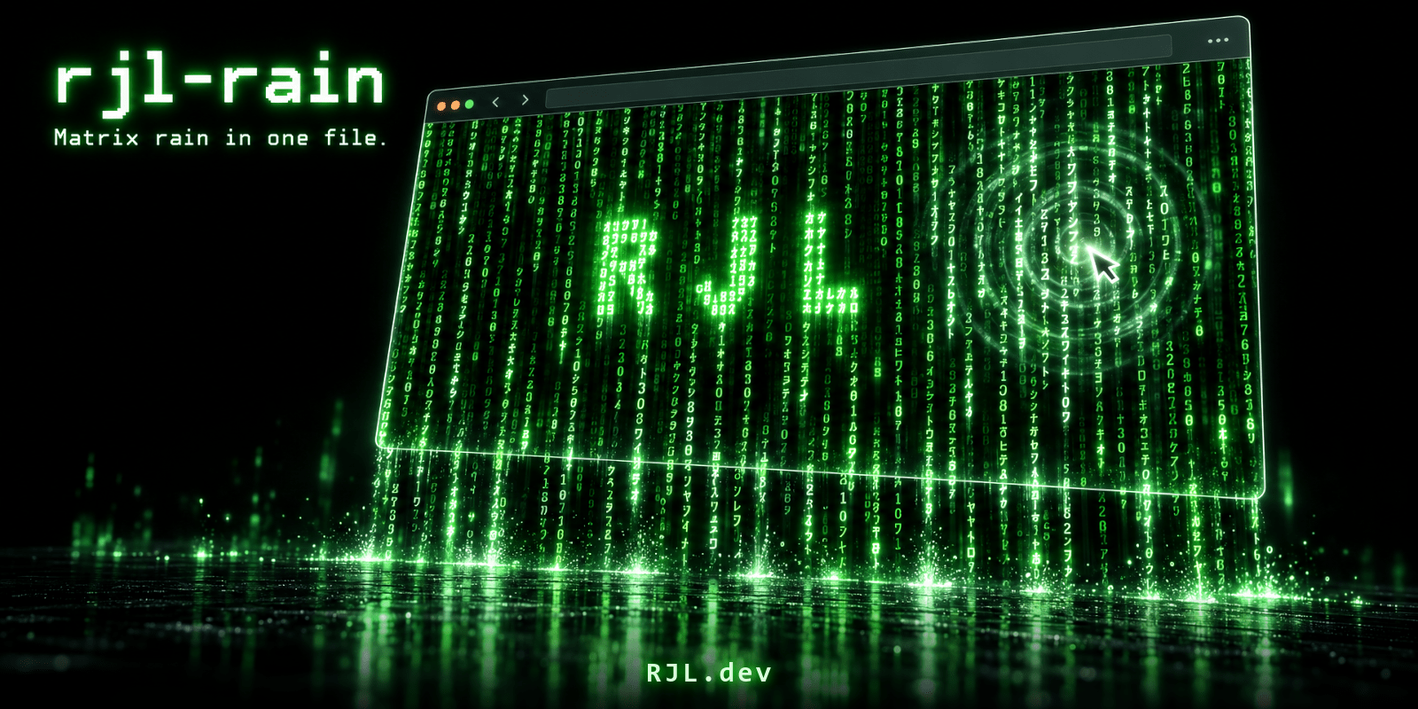
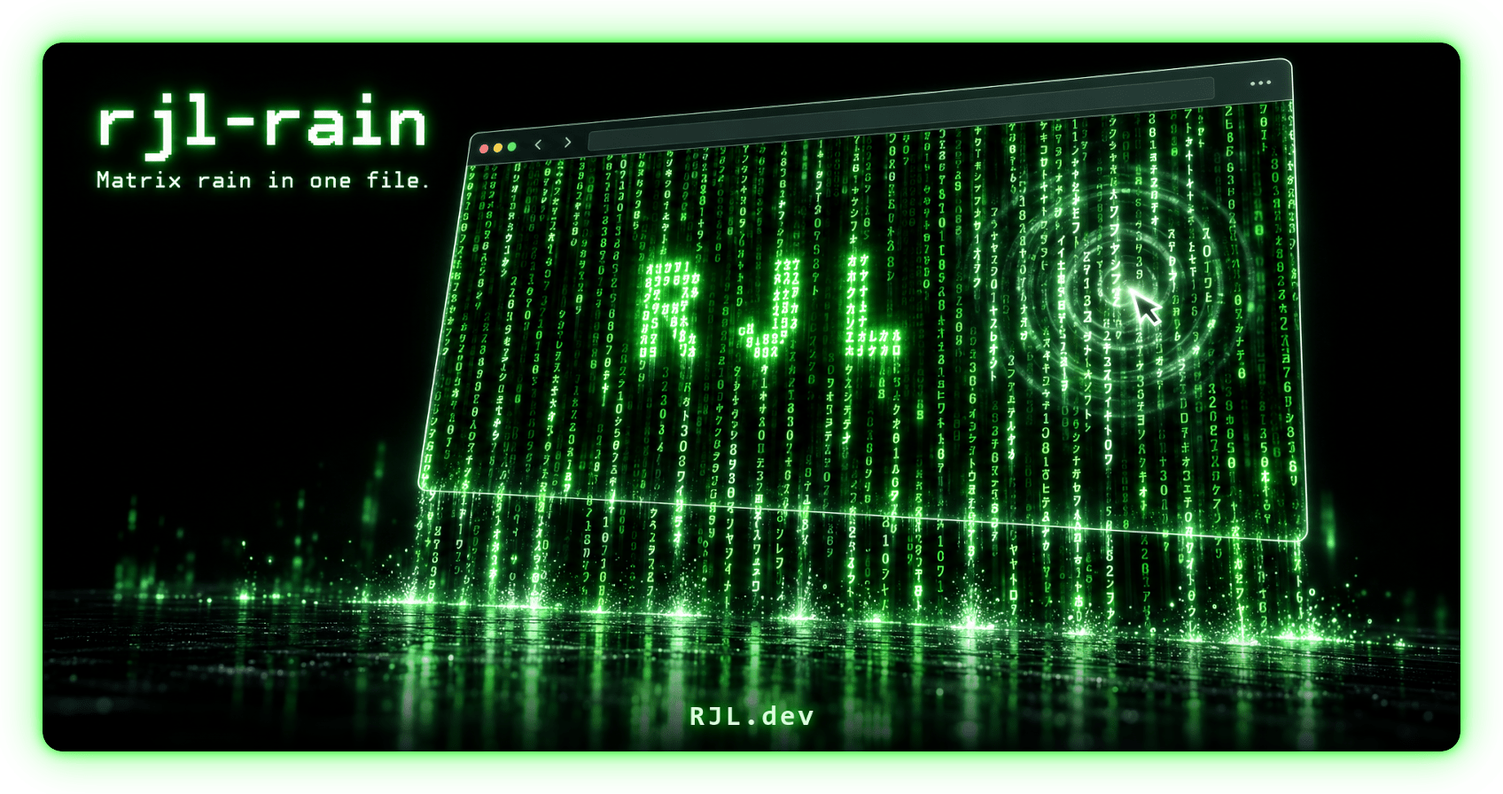
rjl-rain 1.1.2
README: framework examples for React/Next.js, Vue/Nuxt, Angular, Svelte, Astro, SolidJS, Preact, Qwik, Lit, Alpine.js, the server-driven stacks (htmx, Turbo, Livewire, LiveView) and site builders, each collapsible. The README images get rounded corners and a green glow baked into the PNGs. No library changes beyond the version.

diff --git a/rjl-rain.min.js b/rjl-rain.min.js
@@ -1,2 +1,2 @@
-/*! rjl-rain v1.1.1 | MIT License | (c) 2026 RJ Lindelof | https://github.com/rjlsoftware/rjl-rain */
-!function(e,t){"object"==typeof module&&module.exports?module.exports=t():e.RJLRain=t()}("undefined"!=typeof self?self:this,function(){"use strict";const e="1.1.1",t=Object.freeze({classic:function(){let e="";for(let t=65382;t<=65437;t++)e+=String.fromCharCode(t);return e}()+"0123456789",rjl:"RJL",binary:"01",hex:"0123456789ABCDEF"}),n={A:"ehvhh",B:"uhuhu",C:"fgggf",D:"uhhhu",E:"vgugv",F:"vgugg",G:"fgjhe",H:"hhvhh",I:"v444v",J:"722ic",K:"hisih",L:"ggggv",M:"hrlhh",N:"hpljh",O:"ehhhe",P:"uhugg",Q:"ehlid",R:"uhuih",S:"fge1u",T:"v4444",U:"hhhhe",V:"hhha4",W:"hhlrh",X:"ha4ah",Y:"ha444",Z:"v248v",0:"ejlpe",1:"4c44e",2:"eh68v",3:"u1e1u",4:"iiv22",5:"vgu1u",6:"eguhe",7:"v1244",8:"ehehe",9:"ehf1e"," ":"00000","!":"44404","?":"eh604",".":"00004","-":"00e00",":":"04040",_:"0000v","'":"44000"};function o(e,t){const o=Math.max(1,Math.floor(t||1)),r=Array.from(String(null==e?"":e).toUpperCase()),i=[];return r.forEach((e,t)=>{const r=n[e]||n["?"];for(let e=0;e<5;e++){const n=parseInt(r[e],32);for(let r=0;r<5;r++)if(n>>4-r&1)for(let n=0;n<o;n++)for(let a=0;a<o;a++)i.push([e*o+n,(6*t+r)*o+a])}}),{width:r.length?(6*r.length-1)*o:0,height:r.length?5*o:0,cells:i}}const r=Object.freeze({chars:t.classic,color:"#00FF00",bright:"#B6FFB6",head:"",background:"#000000",fade:.05,fontSize:16,fontFamily:"monospace",fps:20,speed:1,speedVariance:0,word:"RJL",wordChance:.005,wordFrames:50,wordChar:"1",wordScale:1,wordPosition:"random",onWord:null,interactive:!0,glowRadius:70,ignore:'a,button,input,select,textarea,label,summary,[role="button"],[contenteditable]',reducedMotion:"auto",pauseOffscreen:!0,controls:!1}),i="rjl-rain:paused";function a(e,t){const n=Object.assign({},e,t||{});return n.fade=Math.min(1,Math.max(0,Number(n.fade)||0)),n.fontSize=Math.max(6,Number(n.fontSize)||r.fontSize),n.fps=Math.min(60,Math.max(1,Number(n.fps)||r.fps)),n.speed=Math.min(3,Math.max(.1,Number(n.speed)||r.speed)),n.speedVariance=Math.min(1,Math.max(0,Number(n.speedVariance)||0)),n.glowRadius=Math.max(0,Number(n.glowRadius)||0),n.wordChance=Math.min(1,Math.max(0,Number(n.wordChance)||0)),n.wordFrames=Math.max(1,Math.floor(Number(n.wordFrames)||r.wordFrames)),n.wordPosition="center"===n.wordPosition?"center":"random",n.chars=String(n.chars||"")||r.chars,n.head=n.head?String(n.head):"",n.words=(Array.isArray(n.word)?n.word:[n.word]).filter(e=>null!=e&&""!==e).map(String),n.transparent="transparent"===String(n.background).toLowerCase(),n}function s(t,n){if("undefined"==typeof document)throw new Error("RJLRain needs a browser (document is undefined)");t&&"object"==typeof t&&"number"!=typeof t.nodeType&&void 0===n&&(n=t,t=null);const s="string"==typeof t?document.querySelector(t):t;if("string"==typeof t&&!s)throw new Error("RJLRain: no element matches "+t);if(s&&"number"!=typeof s.nodeType)throw new TypeError("RJLRain: the target must be an element, a selector or a <canvas>");let l=s&&s.getContext?s:null;const c=s&&!l&&s!==document.body&&s!==document.documentElement?s:null,d=!l;let h=null;if(d)if(l=document.createElement("canvas"),l.setAttribute("aria-hidden","true"),c){l.style.cssText="position:absolute;top:0;left:0;width:100%;height:100%;z-index:-1;pointer-events:none;display:block;border-radius:inherit";const e=getComputedStyle(c);h={position:c.style.position,isolation:c.style.isolation},"static"===e.position&&(c.style.position="relative"),"isolate"!==e.isolation&&(c.style.isolation="isolate")}else l.style.cssText="position:fixed;top:0;left:0;width:100%;height:100%;z-index:-1;pointer-events:none;display:block";else l.style.width||l.clientWidth!==l.width||l.clientHeight!==l.height||(l.style.width=l.width+"px",l.style.height=l.height+"px");let u=a(r,n);const f=l.getContext("2d",{willReadFrequently:u.transparent});let m=Array.from(u.chars),p=u.fontSize+"px "+u.fontFamily,g=0,w=0,y=0,b=new Float32Array(0),v=new Int32Array(0),M=new Float32Array(0),x=[],S=new Uint8Array(0),E=0,A=0,R=!1,C=!1,L=!0,z="",j=0,F=0,k=!1,O=-1e4,N=-1e4;const T=[0,1,2,3].map(()=>({x:0,y:0,t:0,lo:0,hi:0,on:!1}));let I=0,J=null;const B=()=>J||(J=l.getBoundingClientRect()),H=new Set;let P=!1,W=0,q=null,D=!1,V=null;const U="function"==typeof matchMedia?matchMedia("(prefers-reduced-motion: reduce)"):null,X=()=>"auto"===u.reducedMotion?!(!U||!U.matches):!!u.reducedMotion,Y=()=>u.speed*(1-u.speedVariance*Math.random());function G(){u.transparent?f.clearRect(0,0,g,w):(f.fillStyle=u.background,f.fillRect(0,0,g,w)),z=""}function K(){if(C)return;J=null;const e=Math.min("number"==typeof devicePixelRatio&&devicePixelRatio||1,2);g=Math.max(0,Math.round(l.clientWidth)),w=Math.max(0,Math.round(l.clientHeight)),l.width=Math.round(g*e),l.height=Math.round(w*e),f.setTransform(e,0,0,e,0,0),y=Math.floor(g/u.fontSize),b=new Float32Array(y).fill(1),v=new Int32Array(y).fill(-1),M=new Float32Array(y);for(let e=0;e<y;e++)M[e]=Y();x=new Array(y).fill(""),S=new Uint8Array(y),j=0,H.clear(),P=!1,G(),k=!1,X()&&$()}function Q(e,t,n,o){o!==z&&(f.fillStyle=o,z=o),f.fillText(e,t,n)}function Z(e,t){const n=u.fontSize;u.transparent?f.clearRect(e,t-n,n,Math.ceil(1.2*n)):(z!==u.background&&(f.fillStyle=u.background,z=u.background),f.fillRect(e,t-n,n,Math.ceil(1.2*n)))}function _(e,t){const n=u.fontSize;t||(k=!1),f.globalAlpha=u.fade,u.transparent?(f.globalCompositeOperation="destination-out",f.fillStyle="#000",f.fillRect(0,0,g,w),f.globalCompositeOperation="source-over"):(f.fillStyle=u.background,f.fillRect(0,0,g,w)),f.globalAlpha=1,f.font=p,z="";let o=!1;for(let t=0;t<T.length;t++){const n=T[t];if(!n.on)continue;const r=e-n.t;if(r>650){n.on=!1;continue}const i=.5*r,a=Math.max(0,i-22),s=i+22;n.lo=a*a,n.hi=s*s,o=!0}const r=u.interactive?u.glowRadius*u.glowRadius:-1,i=u.head;for(let e=0;e<y;e++){const t=e*n,a=0|b[e];if(a!==v[e]){if(1===S[e]){const o=v[e]*n;Z(t,o),Q(x[e],t,o,u.color)}for(let s=Math.max(v[e]+1,a-3,1);s<=a;s++){const l=s*n;let c=m[Math.random()*m.length|0],d=0;if(P&&H.has(65536*s+e))c=u.wordChar,d=3;else{const e=t-O,n=l-N;if(e*e+n*n<r)d=2;else if(o)for(let e=0;e<T.length;e++){const n=T[e];if(!n.on)continue;const o=t-n.x,r=l-n.y,i=o*o+r*r;if(i>n.lo&&i<n.hi){d=2;break}}0===d&&i&&s===a&&(d=1)}Q(c,t,l,0===d?u.color:1===d?i:u.bright),2===d&&Math.random()<.25&&(b[e]+=1),s===a&&(x[e]=c,S[e]=d)}v[e]=a}else if(1===S[e]&&i){const o=a*n;Z(t,o),Q(x[e],t,o,i)}a*n>w&&Math.random()>.975&&(b[e]=0,v[e]=-1,S[e]=0,M[e]=Y()),b[e]+=M[e]}P?++W>u.wordFrames&&(P=!1,W=0):u.words.length&&Math.random()<u.wordChance&&oe(void 0,!0),u.transparent&&!t&&function(){const e=l.width,t=l.height;if(!e||!t)return;const n=j>=t?0:j,o=Math.min(Math.ceil(t/20),t-n),r=f.getImageData(0,n,e,o),i=r.data,a=Math.min(96,Math.ceil(.5/Math.max(u.fade,.004))+2);let s=!1;for(let e=3;e<i.length;e+=4)i[e]&&i[e]<a&&(i[e]=i[e-1]=i[e-2]=i[e-3]=0,s=!0);s&&f.putImageData(r,0,n),j=n+o}()}function $(){G();const e=Math.ceil(w/u.fontSize)+30,t="undefined"!=typeof performance?performance.now():Date.now();for(let n=0;n<e;n++)_(t,!0);k=!0}function ee(e){E=requestAnimationFrame(ee),e-A<1e3/u.fps||(A=e,_(e,!1))}function te(){E&&cancelAnimationFrame(E),E=0}function ne(){C||(X()?(te(),k||$()):R||!L&&u.pauseOffscreen?te():E||R||C||X()||!L&&u.pauseOffscreen||(E=requestAnimationFrame(ee)),q&&(q.setAttribute("aria-pressed",R?"true":"false"),D&&(V.setAttribute("d",R?"M5 3l8 5-8 5z":"M4 3h3v10H4zM9 3h3v10H9z"),q.style.color=u.color,q.style.borderColor=u.color,q.style.display=X()?"none":"grid")))}function oe(e,t){const n=void 0===e?function(){const e=u.words;if(!e.length)return"";const t=e[F%e.length];return F=(F+1)%e.length,t}():e;if(!n||C)return!1;const r=o(n,u.wordScale),i=Math.floor(w/u.fontSize);if(!r.cells.length||r.width>y||r.height>i)return!1;const a="center"===u.wordPosition,s=a?Math.floor((y-r.width)/2):Math.floor(Math.random()*(y-r.width+1)),l=Math.min(Math.max(1,Math.floor(a?(i-r.height)/2:i/3)),i-r.height);H.clear();for(const[e,t]of r.cells)H.add(65536*(l+e)+s+t);return P=!0,W=0,!t&&X()&&$(),"function"==typeof u.onWord&&u.onWord(String(n)),!0}function re(){R=!0,ne()}function ie(){R=!1,ne()}function ae(){const e=document.fonts;if(!e||"function"!=typeof e.load)return;const t=p;e.load(t,m.slice(0,8).join("")).then(()=>{!C&&t===p&&X()&&$()},()=>{})}const se=()=>{R?ie():re();try{localStorage.setItem(i,R?"1":"0")}catch(e){}};function le(){const e=u.controls;if(e){if(!0===e){const e="http://www.w3.org/2000/svg";q=document.createElement("button"),D=!0,q.type="button",q.className="rjl-rain-toggle",q.setAttribute("aria-label","Pause animation"),q.style.cssText=(c?"position:absolute;z-index:1;":d?"position:fixed;z-index:999;":"")+"right:12px;bottom:12px;width:36px;height:36px;padding:0;place-items:center;cursor:pointer;border:1px solid;border-radius:50%;background:rgba(0,0,0,0.6)";const t=document.createElementNS(e,"svg");t.setAttribute("viewBox","0 0 16 16"),t.setAttribute("width","14"),t.setAttribute("height","14"),t.setAttribute("fill","currentColor"),t.setAttribute("aria-hidden","true"),V=document.createElementNS(e,"path"),t.appendChild(V),q.appendChild(t),c?c.appendChild(q):d?document.body.appendChild(q):l.insertAdjacentElement("afterend",q)}else if(q="string"==typeof e?document.querySelector(e):e,!q)throw new Error("RJLRain: no element matches "+e);q.addEventListener("click",se);try{"1"===localStorage.getItem(i)&&(R=!0)}catch(e){}}}function ce(){q&&(q.removeEventListener("click",se),D?q.remove():q.removeAttribute("aria-pressed"),q=V=null,D=!1)}const de=e=>{const t=B();O=e.clientX-t.left,N=e.clientY-t.top},he=e=>{e.relatedTarget||(O=-1e4,N=-1e4)},ue=e=>{if(!u.interactive||R||X())return;const t=e.target;if(u.ignore&&t&&t.closest&&t.closest(u.ignore))return;const n=B(),o=e.clientX-n.left,r=e.clientY-n.top;if(o<0||r<0||o>n.width||r>n.height)return;const i=T[I];I=(I+1)%T.length,i.x=o,i.y=r,i.t=performance.now(),i.on=!0},fe=()=>{J=null};let me=0;const pe=()=>{Math.round(l.clientWidth)===g&&Math.round(l.clientHeight)===w||(clearTimeout(me),me=setTimeout(K,100))};window.addEventListener("pointermove",de,{passive:!0}),window.addEventListener("pointerdown",ue,{passive:!0}),window.addEventListener("pointerout",he,{passive:!0}),window.addEventListener("scroll",fe,{passive:!0,capture:!0});const ge="function"==typeof ResizeObserver?new ResizeObserver(pe):null;ge?ge.observe(l):window.addEventListener("resize",pe);const we="function"==typeof IntersectionObserver?new IntersectionObserver(e=>{L=e[e.length-1].isIntersecting,ne()}):null;function ye(){C||(c?c.insertBefore(l,c.firstChild):d&&document.body.insertBefore(l,document.body.firstChild),le(),K(),ae(),ne())}return we&&we.observe(l),U&&U.addEventListener&&U.addEventListener("change",ne),!d||c||document.body?ye():document.addEventListener("DOMContentLoaded",ye,{once:!0}),{version:e,canvas:l,get running(){return 0!==E},get paused(){return R},get forming(){return P},form:e=>oe(e,!1),pause:re,resume:ie,set(e){const t=u;if(u=a(u,e),m=Array.from(u.chars),p=u.fontSize+"px "+u.fontFamily,u.words.join("\n")!==t.words.join("\n")&&(F=0),u.speed!==t.speed||u.speedVariance!==t.speedVariance)for(let e=0;e<y;e++)M[e]=Y();return u.fontSize!==t.fontSize?K():u.transparent!==t.transparent&&G(),p!==t.fontSize+"px "+t.fontFamily&&ae(),u.controls!==t.controls&&(ce(),le()),k=!1,ne(),this},resize:K,destroy(){C||(C=!0,te(),clearTimeout(me),window.removeEventListener("pointermove",de),window.removeEventListener("pointerdown",ue),window.removeEventListener("pointerout",he),window.removeEventListener("scroll",fe,{capture:!0}),ge?ge.disconnect():window.removeEventListener("resize",pe),we&&we.disconnect(),U&&U.removeEventListener&&U.removeEventListener("change",ne),ce(),d?l.remove():f.clearRect(0,0,g,w),h&&(c.style.position=h.position,c.style.isolation=h.isolation))}}}const l={chars:"s",color:"s",bright:"s",head:"s",background:"s",fade:"n","font-size":"n","font-family":"s",fps:"n",speed:"n","speed-variance":"n",word:"w","word-chance":"n","word-frames":"n","word-char":"s","word-scale":"n","word-position":"s",interactive:"b","glow-radius":"n",ignore:"s","reduced-motion":"m","pause-offscreen":"b",controls:"b"};function c(e,n){const o={};return Object.keys(l).forEach(i=>{const a=i.replace(/-([a-z])/g,(e,t)=>t.toUpperCase());if(!e.hasAttribute(i))return void(n&&(o[a]=r[a]));const s=e.getAttribute(i),c=l[i];o[a]="n"===c?Number(s):"b"===c?"false"!==s:"w"===c?s.split(",").map(e=>e.trim()):"m"===c?"auto"===s?"auto":"false"!==s:"chars"===a&&t[s]?t[s]:s}),o}function d(e){const t=e||document,n=[];return t&&"function"==typeof t.querySelectorAll?(t.querySelectorAll("[data-rjl-rain]").forEach(e=>{if(e.rjlRain)return;let t={};const o=e.getAttribute("data-rjl-rain");if(o)try{t=JSON.parse(o)}catch(e){return void console.error("RJLRain: data-rjl-rain is not valid JSON: "+o)}e.rjlRain=s(e,t),n.push(e.rjlRain)}),n):n}return s.version=e,s.defaults=r,s.glyphs=t,s.wordShape=o,s.auto=d,"undefined"!=typeof document&&(function(){const e="undefined"!=typeof window?window:null;if(e&&e.customElements&&e.HTMLElement&&!e.customElements.get("rjl-rain")){class t extends e.HTMLElement{static get observedAttributes(){return Object.keys(l)}connectedCallback(){if(this.rain)return;const e=this.hasAttribute("fullscreen");e?this.style.display="none":"inline"===getComputedStyle(this).display&&(this.style.display="block");const t=c(this,!1);t.onWord=e=>this.dispatchEvent(new CustomEvent("word",{detail:{word:e},bubbles:!0})),this.rain=s(e?null:this,t)}disconnectedCallback(){this.rain&&(this.rain.destroy(),this.rain=null)}attributeChangedCallback(){this.rain&&this.rain.set(c(this,!0))}}e.customElements.define("rjl-rain",t)}}(),"loading"===document.readyState?document.addEventListener("DOMContentLoaded",()=>d(),{once:!0}):d()),s});
+/*! rjl-rain v1.1.2 | MIT License | (c) 2026 RJ Lindelof | https://github.com/rjlsoftware/rjl-rain */
+!function(e,t){"object"==typeof module&&module.exports?module.exports=t():e.RJLRain=t()}("undefined"!=typeof self?self:this,function(){"use strict";const e="1.1.2",t=Object.freeze({classic:function(){let e="";for(let t=65382;t<=65437;t++)e+=String.fromCharCode(t);return e}()+"0123456789",rjl:"RJL",binary:"01",hex:"0123456789ABCDEF"}),n={A:"ehvhh",B:"uhuhu",C:"fgggf",D:"uhhhu",E:"vgugv",F:"vgugg",G:"fgjhe",H:"hhvhh",I:"v444v",J:"722ic",K:"hisih",L:"ggggv",M:"hrlhh",N:"hpljh",O:"ehhhe",P:"uhugg",Q:"ehlid",R:"uhuih",S:"fge1u",T:"v4444",U:"hhhhe",V:"hhha4",W:"hhlrh",X:"ha4ah",Y:"ha444",Z:"v248v",0:"ejlpe",1:"4c44e",2:"eh68v",3:"u1e1u",4:"iiv22",5:"vgu1u",6:"eguhe",7:"v1244",8:"ehehe",9:"ehf1e"," ":"00000","!":"44404","?":"eh604",".":"00004","-":"00e00",":":"04040",_:"0000v","'":"44000"};function o(e,t){const o=Math.max(1,Math.floor(t||1)),r=Array.from(String(null==e?"":e).toUpperCase()),i=[];return r.forEach((e,t)=>{const r=n[e]||n["?"];for(let e=0;e<5;e++){const n=parseInt(r[e],32);for(let r=0;r<5;r++)if(n>>4-r&1)for(let n=0;n<o;n++)for(let a=0;a<o;a++)i.push([e*o+n,(6*t+r)*o+a])}}),{width:r.length?(6*r.length-1)*o:0,height:r.length?5*o:0,cells:i}}const r=Object.freeze({chars:t.classic,color:"#00FF00",bright:"#B6FFB6",head:"",background:"#000000",fade:.05,fontSize:16,fontFamily:"monospace",fps:20,speed:1,speedVariance:0,word:"RJL",wordChance:.005,wordFrames:50,wordChar:"1",wordScale:1,wordPosition:"random",onWord:null,interactive:!0,glowRadius:70,ignore:'a,button,input,select,textarea,label,summary,[role="button"],[contenteditable]',reducedMotion:"auto",pauseOffscreen:!0,controls:!1}),i="rjl-rain:paused";function a(e,t){const n=Object.assign({},e,t||{});return n.fade=Math.min(1,Math.max(0,Number(n.fade)||0)),n.fontSize=Math.max(6,Number(n.fontSize)||r.fontSize),n.fps=Math.min(60,Math.max(1,Number(n.fps)||r.fps)),n.speed=Math.min(3,Math.max(.1,Number(n.speed)||r.speed)),n.speedVariance=Math.min(1,Math.max(0,Number(n.speedVariance)||0)),n.glowRadius=Math.max(0,Number(n.glowRadius)||0),n.wordChance=Math.min(1,Math.max(0,Number(n.wordChance)||0)),n.wordFrames=Math.max(1,Math.floor(Number(n.wordFrames)||r.wordFrames)),n.wordPosition="center"===n.wordPosition?"center":"random",n.chars=String(n.chars||"")||r.chars,n.head=n.head?String(n.head):"",n.words=(Array.isArray(n.word)?n.word:[n.word]).filter(e=>null!=e&&""!==e).map(String),n.transparent="transparent"===String(n.background).toLowerCase(),n}function s(t,n){if("undefined"==typeof document)throw new Error("RJLRain needs a browser (document is undefined)");t&&"object"==typeof t&&"number"!=typeof t.nodeType&&void 0===n&&(n=t,t=null);const s="string"==typeof t?document.querySelector(t):t;if("string"==typeof t&&!s)throw new Error("RJLRain: no element matches "+t);if(s&&"number"!=typeof s.nodeType)throw new TypeError("RJLRain: the target must be an element, a selector or a <canvas>");let l=s&&s.getContext?s:null;const c=s&&!l&&s!==document.body&&s!==document.documentElement?s:null,d=!l;let h=null;if(d)if(l=document.createElement("canvas"),l.setAttribute("aria-hidden","true"),c){l.style.cssText="position:absolute;top:0;left:0;width:100%;height:100%;z-index:-1;pointer-events:none;display:block;border-radius:inherit";const e=getComputedStyle(c);h={position:c.style.position,isolation:c.style.isolation},"static"===e.position&&(c.style.position="relative"),"isolate"!==e.isolation&&(c.style.isolation="isolate")}else l.style.cssText="position:fixed;top:0;left:0;width:100%;height:100%;z-index:-1;pointer-events:none;display:block";else l.style.width||l.clientWidth!==l.width||l.clientHeight!==l.height||(l.style.width=l.width+"px",l.style.height=l.height+"px");let u=a(r,n);const f=l.getContext("2d",{willReadFrequently:u.transparent});let m=Array.from(u.chars),p=u.fontSize+"px "+u.fontFamily,g=0,w=0,y=0,b=new Float32Array(0),v=new Int32Array(0),M=new Float32Array(0),x=[],S=new Uint8Array(0),E=0,A=0,R=!1,C=!1,L=!0,z="",j=0,F=0,k=!1,O=-1e4,N=-1e4;const T=[0,1,2,3].map(()=>({x:0,y:0,t:0,lo:0,hi:0,on:!1}));let I=0,J=null;const B=()=>J||(J=l.getBoundingClientRect()),H=new Set;let P=!1,W=0,q=null,D=!1,V=null;const U="function"==typeof matchMedia?matchMedia("(prefers-reduced-motion: reduce)"):null,X=()=>"auto"===u.reducedMotion?!(!U||!U.matches):!!u.reducedMotion,Y=()=>u.speed*(1-u.speedVariance*Math.random());function G(){u.transparent?f.clearRect(0,0,g,w):(f.fillStyle=u.background,f.fillRect(0,0,g,w)),z=""}function K(){if(C)return;J=null;const e=Math.min("number"==typeof devicePixelRatio&&devicePixelRatio||1,2);g=Math.max(0,Math.round(l.clientWidth)),w=Math.max(0,Math.round(l.clientHeight)),l.width=Math.round(g*e),l.height=Math.round(w*e),f.setTransform(e,0,0,e,0,0),y=Math.floor(g/u.fontSize),b=new Float32Array(y).fill(1),v=new Int32Array(y).fill(-1),M=new Float32Array(y);for(let e=0;e<y;e++)M[e]=Y();x=new Array(y).fill(""),S=new Uint8Array(y),j=0,H.clear(),P=!1,G(),k=!1,X()&&$()}function Q(e,t,n,o){o!==z&&(f.fillStyle=o,z=o),f.fillText(e,t,n)}function Z(e,t){const n=u.fontSize;u.transparent?f.clearRect(e,t-n,n,Math.ceil(1.2*n)):(z!==u.background&&(f.fillStyle=u.background,z=u.background),f.fillRect(e,t-n,n,Math.ceil(1.2*n)))}function _(e,t){const n=u.fontSize;t||(k=!1),f.globalAlpha=u.fade,u.transparent?(f.globalCompositeOperation="destination-out",f.fillStyle="#000",f.fillRect(0,0,g,w),f.globalCompositeOperation="source-over"):(f.fillStyle=u.background,f.fillRect(0,0,g,w)),f.globalAlpha=1,f.font=p,z="";let o=!1;for(let t=0;t<T.length;t++){const n=T[t];if(!n.on)continue;const r=e-n.t;if(r>650){n.on=!1;continue}const i=.5*r,a=Math.max(0,i-22),s=i+22;n.lo=a*a,n.hi=s*s,o=!0}const r=u.interactive?u.glowRadius*u.glowRadius:-1,i=u.head;for(let e=0;e<y;e++){const t=e*n,a=0|b[e];if(a!==v[e]){if(1===S[e]){const o=v[e]*n;Z(t,o),Q(x[e],t,o,u.color)}for(let s=Math.max(v[e]+1,a-3,1);s<=a;s++){const l=s*n;let c=m[Math.random()*m.length|0],d=0;if(P&&H.has(65536*s+e))c=u.wordChar,d=3;else{const e=t-O,n=l-N;if(e*e+n*n<r)d=2;else if(o)for(let e=0;e<T.length;e++){const n=T[e];if(!n.on)continue;const o=t-n.x,r=l-n.y,i=o*o+r*r;if(i>n.lo&&i<n.hi){d=2;break}}0===d&&i&&s===a&&(d=1)}Q(c,t,l,0===d?u.color:1===d?i:u.bright),2===d&&Math.random()<.25&&(b[e]+=1),s===a&&(x[e]=c,S[e]=d)}v[e]=a}else if(1===S[e]&&i){const o=a*n;Z(t,o),Q(x[e],t,o,i)}a*n>w&&Math.random()>.975&&(b[e]=0,v[e]=-1,S[e]=0,M[e]=Y()),b[e]+=M[e]}P?++W>u.wordFrames&&(P=!1,W=0):u.words.length&&Math.random()<u.wordChance&&oe(void 0,!0),u.transparent&&!t&&function(){const e=l.width,t=l.height;if(!e||!t)return;const n=j>=t?0:j,o=Math.min(Math.ceil(t/20),t-n),r=f.getImageData(0,n,e,o),i=r.data,a=Math.min(96,Math.ceil(.5/Math.max(u.fade,.004))+2);let s=!1;for(let e=3;e<i.length;e+=4)i[e]&&i[e]<a&&(i[e]=i[e-1]=i[e-2]=i[e-3]=0,s=!0);s&&f.putImageData(r,0,n),j=n+o}()}function $(){G();const e=Math.ceil(w/u.fontSize)+30,t="undefined"!=typeof performance?performance.now():Date.now();for(let n=0;n<e;n++)_(t,!0);k=!0}function ee(e){E=requestAnimationFrame(ee),e-A<1e3/u.fps||(A=e,_(e,!1))}function te(){E&&cancelAnimationFrame(E),E=0}function ne(){C||(X()?(te(),k||$()):R||!L&&u.pauseOffscreen?te():E||R||C||X()||!L&&u.pauseOffscreen||(E=requestAnimationFrame(ee)),q&&(q.setAttribute("aria-pressed",R?"true":"false"),D&&(V.setAttribute("d",R?"M5 3l8 5-8 5z":"M4 3h3v10H4zM9 3h3v10H9z"),q.style.color=u.color,q.style.borderColor=u.color,q.style.display=X()?"none":"grid")))}function oe(e,t){const n=void 0===e?function(){const e=u.words;if(!e.length)return"";const t=e[F%e.length];return F=(F+1)%e.length,t}():e;if(!n||C)return!1;const r=o(n,u.wordScale),i=Math.floor(w/u.fontSize);if(!r.cells.length||r.width>y||r.height>i)return!1;const a="center"===u.wordPosition,s=a?Math.floor((y-r.width)/2):Math.floor(Math.random()*(y-r.width+1)),l=Math.min(Math.max(1,Math.floor(a?(i-r.height)/2:i/3)),i-r.height);H.clear();for(const[e,t]of r.cells)H.add(65536*(l+e)+s+t);return P=!0,W=0,!t&&X()&&$(),"function"==typeof u.onWord&&u.onWord(String(n)),!0}function re(){R=!0,ne()}function ie(){R=!1,ne()}function ae(){const e=document.fonts;if(!e||"function"!=typeof e.load)return;const t=p;e.load(t,m.slice(0,8).join("")).then(()=>{!C&&t===p&&X()&&$()},()=>{})}const se=()=>{R?ie():re();try{localStorage.setItem(i,R?"1":"0")}catch(e){}};function le(){const e=u.controls;if(e){if(!0===e){const e="http://www.w3.org/2000/svg";q=document.createElement("button"),D=!0,q.type="button",q.className="rjl-rain-toggle",q.setAttribute("aria-label","Pause animation"),q.style.cssText=(c?"position:absolute;z-index:1;":d?"position:fixed;z-index:999;":"")+"right:12px;bottom:12px;width:36px;height:36px;padding:0;place-items:center;cursor:pointer;border:1px solid;border-radius:50%;background:rgba(0,0,0,0.6)";const t=document.createElementNS(e,"svg");t.setAttribute("viewBox","0 0 16 16"),t.setAttribute("width","14"),t.setAttribute("height","14"),t.setAttribute("fill","currentColor"),t.setAttribute("aria-hidden","true"),V=document.createElementNS(e,"path"),t.appendChild(V),q.appendChild(t),c?c.appendChild(q):d?document.body.appendChild(q):l.insertAdjacentElement("afterend",q)}else if(q="string"==typeof e?document.querySelector(e):e,!q)throw new Error("RJLRain: no element matches "+e);q.addEventListener("click",se);try{"1"===localStorage.getItem(i)&&(R=!0)}catch(e){}}}function ce(){q&&(q.removeEventListener("click",se),D?q.remove():q.removeAttribute("aria-pressed"),q=V=null,D=!1)}const de=e=>{const t=B();O=e.clientX-t.left,N=e.clientY-t.top},he=e=>{e.relatedTarget||(O=-1e4,N=-1e4)},ue=e=>{if(!u.interactive||R||X())return;const t=e.target;if(u.ignore&&t&&t.closest&&t.closest(u.ignore))return;const n=B(),o=e.clientX-n.left,r=e.clientY-n.top;if(o<0||r<0||o>n.width||r>n.height)return;const i=T[I];I=(I+1)%T.length,i.x=o,i.y=r,i.t=performance.now(),i.on=!0},fe=()=>{J=null};let me=0;const pe=()=>{Math.round(l.clientWidth)===g&&Math.round(l.clientHeight)===w||(clearTimeout(me),me=setTimeout(K,100))};window.addEventListener("pointermove",de,{passive:!0}),window.addEventListener("pointerdown",ue,{passive:!0}),window.addEventListener("pointerout",he,{passive:!0}),window.addEventListener("scroll",fe,{passive:!0,capture:!0});const ge="function"==typeof ResizeObserver?new ResizeObserver(pe):null;ge?ge.observe(l):window.addEventListener("resize",pe);const we="function"==typeof IntersectionObserver?new IntersectionObserver(e=>{L=e[e.length-1].isIntersecting,ne()}):null;function ye(){C||(c?c.insertBefore(l,c.firstChild):d&&document.body.insertBefore(l,document.body.firstChild),le(),K(),ae(),ne())}return we&&we.observe(l),U&&U.addEventListener&&U.addEventListener("change",ne),!d||c||document.body?ye():document.addEventListener("DOMContentLoaded",ye,{once:!0}),{version:e,canvas:l,get running(){return 0!==E},get paused(){return R},get forming(){return P},form:e=>oe(e,!1),pause:re,resume:ie,set(e){const t=u;if(u=a(u,e),m=Array.from(u.chars),p=u.fontSize+"px "+u.fontFamily,u.words.join("\n")!==t.words.join("\n")&&(F=0),u.speed!==t.speed||u.speedVariance!==t.speedVariance)for(let e=0;e<y;e++)M[e]=Y();return u.fontSize!==t.fontSize?K():u.transparent!==t.transparent&&G(),p!==t.fontSize+"px "+t.fontFamily&&ae(),u.controls!==t.controls&&(ce(),le()),k=!1,ne(),this},resize:K,destroy(){C||(C=!0,te(),clearTimeout(me),window.removeEventListener("pointermove",de),window.removeEventListener("pointerdown",ue),window.removeEventListener("pointerout",he),window.removeEventListener("scroll",fe,{capture:!0}),ge?ge.disconnect():window.removeEventListener("resize",pe),we&&we.disconnect(),U&&U.removeEventListener&&U.removeEventListener("change",ne),ce(),d?l.remove():f.clearRect(0,0,g,w),h&&(c.style.position=h.position,c.style.isolation=h.isolation))}}}const l={chars:"s",color:"s",bright:"s",head:"s",background:"s",fade:"n","font-size":"n","font-family":"s",fps:"n",speed:"n","speed-variance":"n",word:"w","word-chance":"n","word-frames":"n","word-char":"s","word-scale":"n","word-position":"s",interactive:"b","glow-radius":"n",ignore:"s","reduced-motion":"m","pause-offscreen":"b",controls:"b"};function c(e,n){const o={};return Object.keys(l).forEach(i=>{const a=i.replace(/-([a-z])/g,(e,t)=>t.toUpperCase());if(!e.hasAttribute(i))return void(n&&(o[a]=r[a]));const s=e.getAttribute(i),c=l[i];o[a]="n"===c?Number(s):"b"===c?"false"!==s:"w"===c?s.split(",").map(e=>e.trim()):"m"===c?"auto"===s?"auto":"false"!==s:"chars"===a&&t[s]?t[s]:s}),o}function d(e){const t=e||document,n=[];return t&&"function"==typeof t.querySelectorAll?(t.querySelectorAll("[data-rjl-rain]").forEach(e=>{if(e.rjlRain)return;let t={};const o=e.getAttribute("data-rjl-rain");if(o)try{t=JSON.parse(o)}catch(e){return void console.error("RJLRain: data-rjl-rain is not valid JSON: "+o)}e.rjlRain=s(e,t),n.push(e.rjlRain)}),n):n}return s.version=e,s.defaults=r,s.glyphs=t,s.wordShape=o,s.auto=d,"undefined"!=typeof document&&(function(){const e="undefined"!=typeof window?window:null;if(e&&e.customElements&&e.HTMLElement&&!e.customElements.get("rjl-rain")){class t extends e.HTMLElement{static get observedAttributes(){return Object.keys(l)}connectedCallback(){if(this.rain)return;const e=this.hasAttribute("fullscreen");e?this.style.display="none":"inline"===getComputedStyle(this).display&&(this.style.display="block");const t=c(this,!1);t.onWord=e=>this.dispatchEvent(new CustomEvent("word",{detail:{word:e},bubbles:!0})),this.rain=s(e?null:this,t)}disconnectedCallback(){this.rain&&(this.rain.destroy(),this.rain=null)}attributeChangedCallback(){this.rain&&this.rain.set(c(this,!0))}}e.customElements.define("rjl-rain",t)}}(),"loading"===document.readyState?document.addEventListener("DOMContentLoaded",()=>d(),{once:!0}):d()),s});

diff --git a/rjl-rain.js b/rjl-rain.js
@@ -1,4 +1,4 @@
-/*! rjl-rain v1.1.1 | MIT License | (c) 2026 RJ Lindelof | https://github.com/rjlsoftware/rjl-rain */
+/*! rjl-rain v1.1.2 | MIT License | (c) 2026 RJ Lindelof | https://github.com/rjlsoftware/rjl-rain */
 // rjl-rain - Matrix digital rain on a <canvas>. One file, zero dependencies.
 //
 // Born as the background of RJL OS (https://rjl.sh): one requestAnimationFrame
@@ -19,7 +19,7 @@
 }(typeof self !== 'undefined' ? self : this, function () {
   'use strict';
 
-  const VERSION = '1.1.1';
+  const VERSION = '1.1.2';
 
   function range(from, to) {
     let s = '';

diff --git a/README.md b/README.md
@@ -49,14 +49,14 @@ for the word.
 Full-screen rain behind your page, from a CDN:
 
 ```html
-<script src="https://cdn.jsdelivr.net/gh/rjlsoftware/rjl-rain@v1.1.1/rjl-rain.min.js" integrity="sha384-cKYiCuuY2ponzl1oN9S28Tak9x0P1KH5IkkltzEmRCFSidDC0ISQXuAc0PyhqKy5" crossorigin="anonymous"></script>
+<script src="https://cdn.jsdelivr.net/gh/rjlsoftware/rjl-rain@v1.1.2/rjl-rain.min.js" integrity="sha384-lQ9iYic+79u46VT+3uKaZcBWq7jRWhMXPReDqy08O/gCXoV2005Wb++cz1QieESD" crossorigin="anonymous"></script>
 <script>RJLRain();</script>
 ```
 
 That is the whole install. `RJLRain()` with no target creates a fixed, full-viewport canvas behind
 everything else on the page (it waits for `<body>` if you call it from `<head>`). jsDelivr serves the
 file straight from the release tag, and the `integrity` hash makes the browser refuse any other
-bytes. The npm package is on unpkg too: `https://unpkg.com/rjl-rain@1.1.1/rjl-rain.min.js`.
+bytes. The npm package is on unpkg too: `https://unpkg.com/rjl-rain@1.1.2/rjl-rain.min.js`.
 
 **No JavaScript at all:** load the script, then put the rain where you want it:
 
@@ -70,7 +70,7 @@ bytes. The npm package is on unpkg too: `https://unpkg.com/rjl-rain@1.1.1/rjl-ra
 ```bash
 npm install rjl-rain
 # or straight from GitHub:
-npm install github:rjlsoftware/rjl-rain#v1.1.1
+npm install github:rjlsoftware/rjl-rain#v1.1.2
 ```
 
 ```js
@@ -82,7 +82,7 @@ RJLRain();
 
 ```html
 <script type="module">
-  import RJLRain from 'https://cdn.jsdelivr.net/gh/rjlsoftware/rjl-rain@v1.1.1/rjl-rain.min.mjs';
+  import RJLRain from 'https://cdn.jsdelivr.net/gh/rjlsoftware/rjl-rain@v1.1.2/rjl-rain.min.mjs';
   RJLRain();
 </script>
 ```
@@ -183,9 +183,12 @@ Each one's controller is `element.rjlRain`.
 ## Frameworks
 
 Import it anywhere: nothing touches the DOM until you call it, so server rendering is safe. Start
-it once the element exists and destroy it when the component goes away.
+the rain once the element exists, and destroy it when the component goes away - every example below
+does both. Or skip the wiring in any framework: `import 'rjl-rain'` once and use `<rjl-rain>` in
+your templates, which starts when it is added to the page and cleans up when it is removed.
 
-**React** (in Next.js, a `'use client'` component):
+<details open>
+<summary><b>React</b> - also Next.js, React Router and TanStack Start</summary>
 
 ```jsx
 import { useEffect, useRef } from 'react';
@@ -201,47 +204,240 @@ export function Hero() {
 }
 ```
 
-**Vue:**
+In Next.js, put it in a `'use client'` component.
+
+</details>
+
+<details>
+<summary><b>Vue</b> - also Nuxt</summary>
 
 ```vue
 <script setup>
-import { onMounted, onBeforeUnmount, ref } from 'vue';
+import { onMounted, onBeforeUnmount, useTemplateRef } from 'vue';
 import RJLRain from 'rjl-rain';
 
-const hero = ref(null);
+const hero = useTemplateRef('hero');
 let rain;
 onMounted(() => { rain = RJLRain(hero.value, { word: 'HELLO' }); });
 onBeforeUnmount(() => rain.destroy());
 </script>
 
-<template><section ref="hero" style="height: 420px"><h1>Hello</h1></section></template>
+<template>
+  <section ref="hero" style="height: 420px"><h1>Hello</h1></section>
+</template>
 ```
 
-**Svelte** (an action, so options stay live):
+Nuxt runs it as is: `onMounted` only runs in the browser.
+
+</details>
+
+<details>
+<summary><b>Angular</b></summary>
+
+```ts
+import { Component, DestroyRef, ElementRef, afterNextRender, inject, viewChild } from '@angular/core';
+import RJLRain from 'rjl-rain';
+
+@Component({
+  selector: 'app-hero',
+  template: `<section #hero style="height: 420px"><h1>Hello</h1></section>`
+})
+export class Hero {
+  private hero = viewChild.required<ElementRef<HTMLElement>>('hero');
+  private destroyRef = inject(DestroyRef);
+
+  constructor() {
+    afterNextRender(() => {
+      const rain = RJLRain(this.hero().nativeElement, { word: 'HELLO' });
+      this.destroyRef.onDestroy(() => rain.destroy());
+    });
+  }
+}
+```
+
+`afterNextRender` only runs in the browser, so it is safe with Angular SSR. To use `<rjl-rain>` in
+an Angular template instead, add `schemas: [CUSTOM_ELEMENTS_SCHEMA]` to the component.
+
+</details>
+
+<details>
+<summary><b>Svelte</b> - also SvelteKit</summary>
 
 ```svelte
 <script>
   import RJLRain from 'rjl-rain';
-  function rain(node, options) {
+
+  // An attachment: it runs when the element mounts and cleans up when it goes.
+  const rain = (options) => (node) => {
     const r = RJLRain(node, options);
-    return { update: (next) => r.set(next), destroy: () => r.destroy() };
-  }
+    return () => r.destroy();
+  };
 </script>
 
-<section use:rain={{ word: 'HELLO' }} style="height: 420px"><h1>Hello</h1></section>
+<section {@attach rain({ word: 'HELLO' })} style="height: 420px"><h1>Hello</h1></section>
 ```
 
-**Astro**, or any site with a build step:
+Attachments need Svelte 5.29 or later. On older versions, use an action (`use:rain`) that returns
+`{ destroy }`.
+
+</details>
+
+<details>
+<summary><b>Astro</b></summary>
 
 ```astro
 <section id="hero" style="height: 420px"><h1>Hello</h1></section>
+
 <script>
   import RJLRain from 'rjl-rain';
   RJLRain('#hero', { word: 'HELLO' });
 </script>
 ```
 
-Or skip the wiring: `import 'rjl-rain'` once, then use `<rjl-rain>` in any template.
+Astro bundles the script and runs it in the browser. With `<ClientRouter />` (view transitions),
+start it in a `document.addEventListener('astro:page-load', ...)` handler, or use `<rjl-rain>`,
+which starts and stops with each page by itself.
+
+</details>
+
+<details>
+<summary><b>SolidJS</b></summary>
+
+```jsx
+import { onCleanup, onMount } from 'solid-js';
+import RJLRain from 'rjl-rain';
+
+export function Hero() {
+  let hero;
+  onMount(() => {
+    const rain = RJLRain(hero, { word: 'HELLO' });
+    onCleanup(() => rain.destroy());
+  });
+  return <section ref={hero} style={{ height: '420px' }}><h1>Hello</h1></section>;
+}
+```
+
+</details>
+
+<details>
+<summary><b>Preact</b></summary>
+
+```jsx
+import { useEffect, useRef } from 'preact/hooks';
+import RJLRain from 'rjl-rain';
+
+export function Hero() {
+  const ref = useRef(null);
+  useEffect(() => {
+    const rain = RJLRain(ref.current, { word: 'HELLO' });
+    return () => rain.destroy();
+  }, []);
+  return <section ref={ref} style={{ height: 420 }}><h1>Hello</h1></section>;
+}
+```
+
+</details>
+
+<details>
+<summary><b>Qwik</b></summary>
+
+```tsx
+import { component$, useSignal, useVisibleTask$ } from '@builder.io/qwik';
+import RJLRain from 'rjl-rain';
+
+export const Hero = component$(() => {
+  const hero = useSignal<HTMLElement>();
+  // Runs in the browser once the section scrolls into view, so the rain costs nothing until then.
+  useVisibleTask$(({ cleanup }) => {
+    const rain = RJLRain(hero.value!, { word: 'HELLO' });
+    cleanup(() => rain.destroy());
+  });
+  return <section ref={hero} style={{ height: '420px' }}><h1>Hello</h1></section>;
+});
+```
+
+</details>
+
+<details>
+<summary><b>Lit</b> - and other web components</summary>
+
+```js
+import { LitElement, html } from 'lit';
+import RJLRain from 'rjl-rain';
+
+class RainHero extends LitElement {
+  async connectedCallback() {
+    super.connectedCallback();
+    await this.updateComplete;
+    this.rain = RJLRain(this.renderRoot.querySelector('section'), { word: 'HELLO' });
+  }
+  disconnectedCallback() {
+    super.disconnectedCallback();
+    this.rain?.destroy();
+  }
+  render() {
+    return html`<section style="height: 420px"><h1>Hello</h1></section>`;
+  }
+}
+customElements.define('rain-hero', RainHero);
+```
+
+It works inside a shadow root: the canvas lands next to the section's content there.
+
+</details>
+
+<details>
+<summary><b>Alpine.js</b></summary>
+
+```html
+<script>
+  document.addEventListener('alpine:init', () => {
+    Alpine.data('rain', (options = {}) => {
+      let rain; // kept out of Alpine's reactive state on purpose
+      return {
+        init() { rain = RJLRain(this.$el, options); },
+        destroy() { rain.destroy(); }
+      };
+    });
+  });
+</script>
+
+<section x-data="rain({ word: 'HELLO' })" style="height: 420px"><h1>Hello</h1></section>
+```
+
+</details>
+
+<details>
+<summary><b>htmx, Hotwire Turbo, Livewire, Phoenix LiveView</b></summary>
+
+Server-driven pages swap HTML in and out, so use `<rjl-rain>`: it starts when it is swapped in and
+destroys itself when it is swapped out, with no events to wire up.
+
+```html
+<rjl-rain id="hero-rain" word="HELLO" style="height: 420px"></rjl-rain>
+```
+
+In Livewire add `wire:ignore`, and in LiveView `phx-update="ignore"` (it needs the `id`), so a
+re-render leaves its canvas alone.
+
+</details>
+
+<details>
+<summary><b>WordPress, Webflow, Shopify, Squarespace and other site builders</b></summary>
+
+Paste this into a custom code or HTML embed block (in WordPress, a Custom HTML block, or the theme
+footer for every page):
+
+```html
+<script src="https://cdn.jsdelivr.net/gh/rjlsoftware/rjl-rain@v1.1.2/rjl-rain.min.js" integrity="sha384-lQ9iYic+79u46VT+3uKaZcBWq7jRWhMXPReDqy08O/gCXoV2005Wb++cz1QieESD" crossorigin="anonymous"></script>
+<rjl-rain fullscreen word="HELLO"></rjl-rain>
+```
+
+Swap `fullscreen` for a `style="height: 420px"` to rain in that spot only. The
+[playground](https://rjlsoftware.github.io/rjl-rain/playground/) writes this snippet for any look
+you pick.
+
+</details>
 
 ## Accessibility
 

diff --git a/CHANGELOG.md b/CHANGELOG.md
@@ -2,6 +2,12 @@
 
 All notable changes to rjl-rain. Version format: Major.Medium.Minor.
 
+## [1.1.2] - 10-20-2026 at 9:01pm
+
+### Changed
+- README Frameworks section: an example for each popular front end of 2026, each in a collapsible section - React (and Next.js, React Router, TanStack Start), Vue (and Nuxt, now with `useTemplateRef`), Angular (`viewChild` + `afterNextRender`, SSR-safe), Svelte (an `{@attach}` attachment), Astro (with view transitions), SolidJS, Preact, Qwik (`useVisibleTask$`), Lit, Alpine.js, the server-driven stacks (htmx, Hotwire Turbo, Livewire, Phoenix LiveView) through `<rjl-rain>`, and site builders (WordPress, Webflow, Shopify, Squarespace) with a paste-in snippet.
+- README artwork: the hero, touch and themes images have rounded corners and a green glow (baked into the PNGs, since GitHub strips CSS from READMEs) that reads on both GitHub themes. No library changes beyond the version.
+
 ## [1.1.1] - 10-20-2026 at 8:47pm
 
 ### Fixed
